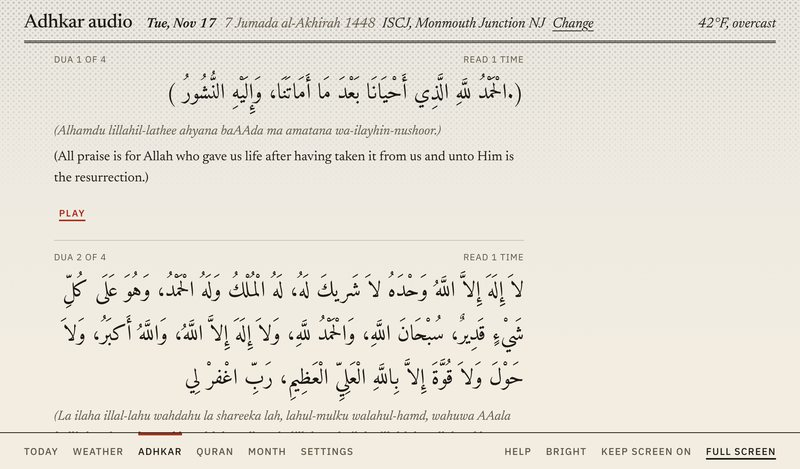
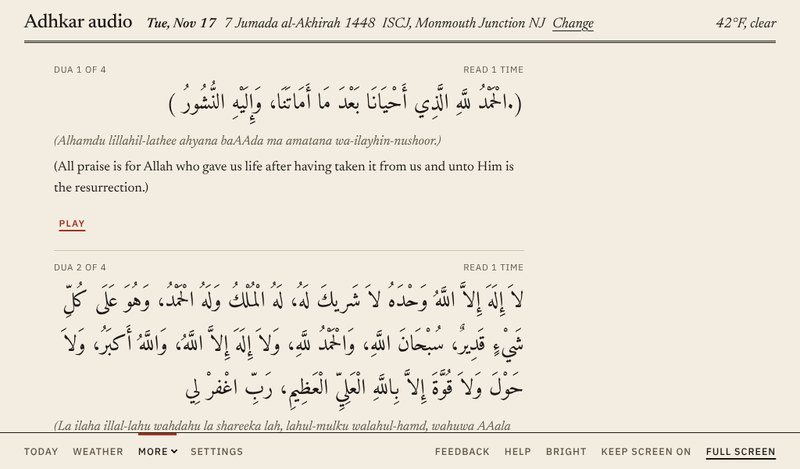
Guide pictures retaken, the sky kept to Today, and More matched to the other tabs
- Every guide picture is retaken from the app as it stands: the new bottom row (Today, Weather,
  More, Settings), the month link on the sunrise line, the "No time known" setting, and the
  live sky on the Today screen and in full screen. Crops and pins follow where each control
  now sits, and the alt text follows the pictures.
- The sky is drawn behind Today and the full screen view only. Behind Settings, Quran, Adhkar,
  Month and Weather it sat under small grey text and a sun glare, well under any readable
  contrast; those screens keep their plain paper.
- "More" now takes its type from the same rules as the other tabs instead of repeating them, so
  it matches at every screen size, and the menu's own chevron is the only mark beside it.
- Cache v41.

Claude-Session: https://claude.ai/code/session_01XcbEMRhwZDWxrWTj65tuJn

diff --git a/styles.css b/styles.css
@@ -85,6 +85,9 @@ body { overflow: hidden; }
 
 /* The moving weather sky (sky.js): one layer behind the page, moved into the full screen view while it is open */
 .sky-live { position: fixed; inset: 0; z-index: -1; pointer-events: none; overflow: hidden; color: var(--ink); }
+/* The sky belongs behind the clock, not behind a form: on every screen but Today it is dropped, so Settings,
+   Quran, Adhkar, Month and Weather keep their plain paper and their small text stays legible. */
+:root:not([data-tab="today"]) > body > .sky-live, :root:not([data-tab="today"]) .sky-tint { display: none; } /* the full screen view keeps its sky: there it is mounted inside #display */
 .sky-real { position: absolute; inset: 0; width: 100%; height: 100%; display: block;
   /* the sky is full strength along the top and gone before the timetable, at any screen height */
   -webkit-mask-image: linear-gradient(#000 0, #000 min(30vh, 200px), transparent min(62vh, 420px)); mask-image: linear-gradient(#000 0, #000 min(30vh, 200px), transparent min(62vh, 420px)); }
@@ -141,9 +144,9 @@ body { overflow: hidden; }
 .tabbar::-webkit-scrollbar { display: none; }
 .brand { width: 2.1rem; height: 2.1rem; margin-bottom: 1rem; }
 .tabbar .d-menu { width: 5.5rem; padding: 0; gap: .3rem; }
-.tabbar .d-menu a { flex-direction: column; align-items: center; gap: .25rem; padding: .6rem 0; font-size: .78rem; font-weight: 600; }
+.tabbar .d-menu a, .tabbar .d-menu .more summary { flex-direction: column; align-items: center; gap: .25rem; padding: .6rem 0; font-size: .78rem; font-weight: 600; }
 .tabbar a, .dockbar a { text-decoration: none; }
-.tabbar .d-menu a { display: grid; grid-auto-flow: row; justify-items: center; justify-content: center; color: var(--ink); } /* the portfolio's a { color: inherit } outranks daisyUI's layered colours */
+.tabbar .d-menu a, .tabbar .d-menu .more summary { display: grid; grid-auto-flow: row; justify-items: center; justify-content: center; color: var(--ink); } /* the portfolio's a { color: inherit } outranks daisyUI's layered colours */
 .tabbar .d-menu a.d-menu-active { color: var(--paper); }
 .tabbar svg, .dockbar svg, .tb-btn svg { width: 1.4rem; height: 1.4rem; flex: none; fill: none; stroke: currentColor; stroke-width: 1.8; stroke-linecap: round; stroke-linejoin: round; }
 .dockbar { display: none; position: static; }
@@ -545,7 +548,7 @@ body { overflow: hidden; }
   .tabbar { gap: .2rem; padding-top: max(.5rem, env(safe-area-inset-top, 0px)); padding-bottom: .5rem; }
   .brand { width: 1.6rem; height: 1.6rem; margin-bottom: .35rem; flex: none; }
   .tabbar .d-menu { width: 4.25rem; gap: .1rem; }
-  .tabbar .d-menu a { padding: .35rem 0; gap: .1rem; font-size: .7rem; }
+  .tabbar .d-menu a, .tabbar .d-menu .more summary { padding: .35rem 0; gap: .1rem; font-size: .7rem; }
   .tabbar svg { width: 1.2rem; height: 1.2rem; }
 }
 /* Phones: tabs move to a bottom bar, the top bar tightens and the action buttons become icons */
@@ -588,12 +591,12 @@ body { overflow: hidden; }
   .brand { display: none; }
   .app .tabbar .d-menu { flex-direction: row; flex-wrap: nowrap; width: auto; gap: 0 clamp(.8rem, 1.8vw, 1.6rem); }
   .app .tabbar .d-menu li { display: flex; }
-  .app .tabbar .d-menu a, .app .tb-btn, .app .tb-btn.d-btn {
+  .app .tabbar .d-menu a, .app .tabbar .d-menu .more summary, .app .tb-btn, .app .tb-btn.d-btn {
     display: flex; align-items: center; height: 2.9rem; min-height: 0; padding: 0; gap: 0; border: 0; border-radius: 0; background: none; box-shadow: none;
     font: 500 .78rem/1 var(--body); letter-spacing: .08em; text-transform: uppercase; color: var(--muted);
   }
-  .app .tabbar .d-menu a:hover, .app .tb-btn:hover { background: none; color: var(--ink); }
-  .app .tabbar .d-menu a.d-menu-active, .app .tabbar .d-menu a.d-menu-active:hover { background: none; color: var(--ink); box-shadow: inset 0 3px 0 var(--clear); }
+  .app .tabbar .d-menu a:hover, .app .tabbar .d-menu .more summary:hover, .app .tb-btn:hover { background: none; color: var(--ink); }
+  .app .tabbar .d-menu a.d-menu-active, .app .tabbar .d-menu .more summary.d-menu-active, .app .tabbar .d-menu a.d-menu-active:hover { background: none; color: var(--ink); box-shadow: inset 0 3px 0 var(--clear); }
   .app .tabbar .d-menu a svg, .app .tb-btn svg { display: none; }
   .topbar-actions {
     position: fixed; z-index: 20; right: max(clamp(1rem, 3vw, 2.5rem), env(safe-area-inset-right, 0px)); bottom: env(safe-area-inset-bottom, 0px);
@@ -880,13 +883,13 @@ body { overflow: hidden; }
   .app .tabbar .d-menu { gap: 0 .7rem; }
   .topbar-actions { gap: .7rem; }
   .topbar-actions::before { content: ""; align-self: center; width: 1px; height: 1.1rem; background: var(--line); } /* where the tabs end and the actions begin */
-  .app .tabbar .d-menu a, .app .tb-btn, .app .tb-btn.d-btn { letter-spacing: .03em; font-size: .74rem; }
+  .app .tabbar .d-menu a, .app .tabbar .d-menu .more summary, .app .tb-btn, .app .tb-btn.d-btn { letter-spacing: .03em; font-size: .74rem; }
 }
 
 @media (min-width: 48.01rem) and (max-width: 52rem) {
   .app .tabbar .d-menu { gap: 0 .55rem; }
   .topbar-actions { gap: .55rem; }
-  .app .tabbar .d-menu a, .app .tb-btn, .app .tb-btn.d-btn { letter-spacing: .02em; font-size: .7rem; }
+  .app .tabbar .d-menu a, .app .tabbar .d-menu .more summary, .app .tb-btn, .app .tb-btn.d-btn { letter-spacing: .02em; font-size: .7rem; }
 }
 
 /* Feedback form: a printed sheet over the dimmed page */
@@ -924,7 +927,6 @@ body { overflow: hidden; }
 /* More menu: Adhkar, Quran and Month sit under one entry so the main bar stays short on a wall tablet */
 .more summary { list-style: none; cursor: pointer; }
 .more summary::-webkit-details-marker { display: none; }
-.tabbar .d-menu .more summary { display: grid; justify-items: center; gap: .25rem; padding: .6rem 0; font-size: .78rem; font-weight: 600; color: var(--ink); }
 .more details { position: relative; }
 .more-menu { position: absolute; z-index: 20; min-width: 9rem; padding: .35rem; background: var(--paper); border: 1px solid var(--line); box-shadow: 0 6px 20px #0004; }
 .tabbar .more-menu { left: 100%; top: 0; margin-left: .35rem; }
@@ -937,10 +939,9 @@ body { overflow: hidden; }
 .sh-month:hover { text-decoration: underline; }
 /* Bottom bar (tablets and wider): More looks like the other tabs and opens upward */
 @media (min-width: 48.01rem) {
-  .app .tabbar .d-menu .more summary { display: flex; align-items: center; height: 2.9rem; padding: 0; gap: .3rem; font: 500 .78rem/1 var(--body); letter-spacing: .08em; text-transform: uppercase; color: var(--muted); }
+  .app .tabbar .d-menu .more summary { flex-direction: row; align-items: center; height: 2.9rem; padding: 0; gap: .34em; }
   .app .tabbar .d-menu .more summary svg { display: none; }
-  .app .tabbar .d-menu .more summary::after { content: "›"; display: inline-block; transform: rotate(-90deg); }
-  .app .tabbar .d-menu .more[open] summary::after, .app .tabbar .d-menu .more details[open] summary::after { transform: rotate(90deg); }
+  /* no caret: at this size any mark beside 11px uppercase type reads as a speck, and the menu opens right above the word */
   .app .tabbar .d-menu .more summary:hover, .app .tabbar .d-menu .more summary.d-menu-active { color: var(--ink); background: none; }
   .app .tabbar .d-menu .more summary.d-menu-active { box-shadow: inset 0 3px 0 var(--clear); }
   .tabbar .more-menu { left: 0; top: auto; bottom: 100%; margin: 0 0 .35rem; }

diff --git a/guide/today.html b/guide/today.html
@@ -25,7 +25,7 @@
 <p class="g-lead">Today is the screen your tablet shows all day. Everything on it updates by itself, so there is nothing to tap unless you want to.</p>
 
 <h2>The Today screen</h2>
-<figure class="g-shot"><a class="g-shot-frame" href="img/today-top.jpg"><img src="img/today-top.jpg" alt="The Today screen on a tablet: the date line at the top, a large clock reading 11:23, Dhuhr adhan in 19 minutes beside it with the adhan and iqama times, the weather at Dhuhr and the day ruler, then the five prayers with adhan and iqama times, and sunrise and Jumu'ah at the bottom." width="800" height="469" loading="lazy" decoding="async"><span class="g-pin" style="--x:4.38%;--y:8.74%" aria-hidden="true">1</span><span class="g-pin" style="--x:33.88%;--y:8.32%" aria-hidden="true">2</span><span class="g-pin" style="--x:45.75%;--y:31.34%" aria-hidden="true">3</span><span class="g-pin" style="--x:71.75%;--y:23.67%" aria-hidden="true">4</span><span class="g-pin" style="--x:75.75%;--y:42%" aria-hidden="true">5</span><span class="g-pin" style="--x:56.88%;--y:47.97%" aria-hidden="true">6</span><span class="g-pin" style="--x:29.25%;--y:68.02%" aria-hidden="true">7</span><span class="g-pin" style="--x:37.38%;--y:86.35%" aria-hidden="true">8</span></a><figcaption>The Today screen on a 7-inch tablet. <span class="g-zoom">(tap to see the whole screen)</span></figcaption></figure>
+<figure class="g-shot"><a class="g-shot-frame" href="img/today-top.jpg"><img src="img/today-top.jpg" alt="The Today screen on a tablet: the date line at the top, a large clock reading 11:23, Dhuhr adhan in 19 minutes beside it with the adhan and iqama times, the weather at Dhuhr and the day ruler, then the five prayers with adhan and iqama times, and sunrise and Jumu'ah at the bottom." width="800" height="469" loading="lazy" decoding="async"><span class="g-pin" style="--x:4.38%;--y:8.74%" aria-hidden="true">1</span><span class="g-pin" style="--x:33.88%;--y:8.32%" aria-hidden="true">2</span><span class="g-pin" style="--x:37.5%;--y:31.98%" aria-hidden="true">3</span><span class="g-pin" style="--x:71.75%;--y:23.67%" aria-hidden="true">4</span><span class="g-pin" style="--x:75%;--y:39.45%" aria-hidden="true">5</span><span class="g-pin" style="--x:56.88%;--y:47.97%" aria-hidden="true">6</span><span class="g-pin" style="--x:29.25%;--y:68.02%" aria-hidden="true">7</span><span class="g-pin" style="--x:37.38%;--y:86.35%" aria-hidden="true">8</span></a><figcaption>The Today screen on a 7-inch tablet. <span class="g-zoom">(tap to see the whole screen)</span></figcaption></figure>
 <ol class="g-steps">
 <li><strong>The date</strong>, then the Hijri date in italics. Chapter 2 shows how to move the Hijri date a day if your local moon sighting differs.</li>
 <li><strong>Where the times are for</strong>, and the weather now at the end of the line. Tap <span class="g-ui">Change</span> to set your place, or tap the weather to open the Weather tab.</li>
@@ -38,7 +38,7 @@
 </ol>
 
 <h2>The countdown, close up</h2>
-<figure class="g-shot"><a class="g-shot-frame g-crop" href="img/today-countdown.jpg" style="aspect-ratio:344/154"><img src="img/today-countdown.jpg" alt="Dhuhr adhan in 19 minutes 32 seconds; Adhan 11:43 AM, Iqama 12:30 PM; At Dhuhr: 43°, overcast; and the day ruler with the red ring before the D." width="800" height="469" loading="lazy" decoding="async" style="position:absolute;max-width:none;width:232.56%;left:-128.78%;top:-61.69%"><span class="g-pin" style="--x:48.84%;--y:31.17%" aria-hidden="true">1</span><span class="g-pin" style="--x:69.48%;--y:53.25%" aria-hidden="true">2</span><span class="g-pin" style="--x:47.38%;--y:66.23%" aria-hidden="true">3</span><span class="g-pin" style="--x:50%;--y:81.82%" aria-hidden="true">4</span></a><figcaption>The countdown beside the clock. <span class="g-zoom">(tap to see the whole screen)</span></figcaption></figure>
+<figure class="g-shot"><a class="g-shot-frame g-crop" href="img/today-countdown.jpg" style="aspect-ratio:344/154"><img src="img/today-countdown.jpg" alt="Dhuhr adhan in 19 minutes 32 seconds; Adhan 11:43 AM, Iqama 12:30 PM; At Dhuhr: 43°, clear; and the day ruler with the red ring before the D." width="800" height="469" loading="lazy" decoding="async" style="position:absolute;max-width:none;width:232.56%;left:-128.78%;top:-61.69%"><span class="g-pin" style="--x:48.84%;--y:31.17%" aria-hidden="true">1</span><span class="g-pin" style="--x:69.48%;--y:53.25%" aria-hidden="true">2</span><span class="g-pin" style="--x:47.38%;--y:66.23%" aria-hidden="true">3</span><span class="g-pin" style="--x:50%;--y:81.82%" aria-hidden="true">4</span></a><figcaption>The countdown beside the clock. <span class="g-zoom">(tap to see the whole screen)</span></figcaption></figure>
 <ol class="g-steps">
 <li><strong>How long until</strong> the next adhan, or the iqama once the adhan has passed.</li>
 <li><strong>Its adhan and iqama times.</strong> On Fridays it shows the khutbah times.</li>
@@ -55,7 +55,7 @@
 <p>If you leave the app on another screen, it returns to Today by itself after two minutes, so a tablet on the wall is never left showing something else. It stays where it is while a recitation is playing, while you are typing in Settings, or while a window is open.</p>
 
 <h2>Weather warnings</h2>
-<figure class="g-shot"><a class="g-shot-frame g-crop" href="img/today-warning.jpg" style="aspect-ratio:774/217"><img src="img/today-warning.jpg" alt="A red-ruled line above the clock: Winter Weather Advisory until 7:00 PM, National Weather Service office NWS Mount Holly NJ." width="800" height="469" loading="lazy" decoding="async" style="position:absolute;max-width:none;width:103.36%;left:-1.68%;top:-13.36%"><span class="g-pin" style="--x:24.29%;--y:10.14%" aria-hidden="true">1</span></a><figcaption>An example of the warning line. <span class="g-zoom">(tap to see the whole screen)</span></figcaption></figure>
+<figure class="g-shot"><a class="g-shot-frame g-crop" href="img/today-warning.jpg" style="aspect-ratio:774/217"><img src="img/today-warning.jpg" alt="A red-ruled line above the clock: Winter Weather Advisory until 7:00 PM, National Weather Service office NWS Mount Holly NJ." width="800" height="469" loading="lazy" decoding="async" style="position:absolute;max-width:none;width:103.36%;left:-1.68%;top:-13.36%"><span class="g-pin" style="--x:40.96%;--y:10.14%" aria-hidden="true">1</span></a><figcaption>An example of the warning line. <span class="g-zoom">(tap to see the whole screen)</span></figcaption></figure>
 <ol class="g-steps">
 <li>While an official <strong>warning, watch or advisory</strong> from the US National Weather Service is in force where you are, a red-ruled line names it and says when it ends. If there is more than one, it shows the most serious and how many more there are. The line goes away by itself when it ends. It is for US locations only.</li>
 </ol>

diff --git a/guide/adhkar.html b/guide/adhkar.html
@@ -25,14 +25,14 @@
 <p class="g-lead">All 132 chapters of Hisn al-Muslim to read and listen to, and the whole month’s adhan times on one page.</p>
 
 <h2>Adhkar</h2>
-<figure class="g-shot"><a class="g-shot-frame" href="img/adhkar.jpg"><img src="img/adhkar.jpg" alt="The Adhkar tab: a search box, 132 chapters, and a list starting with Supplications for when you wake up, each with a Listen link." width="800" height="469" loading="lazy" decoding="async"><span class="g-pin" style="--x:67%;--y:29.42%" aria-hidden="true">1</span><span class="g-pin" style="--x:33.88%;--y:60.34%" aria-hidden="true">2</span><span class="g-pin" style="--x:66.5%;--y:60.34%" aria-hidden="true">3</span></a><figcaption>The Adhkar tab. <span class="g-zoom">(tap to see the whole screen)</span></figcaption></figure>
+<figure class="g-shot"><a class="g-shot-frame" href="img/adhkar.jpg"><img src="img/adhkar.jpg" alt="The Adhkar tab: a search box, 132 chapters, and a list starting with Supplications for when you wake up, each with a Listen link." width="800" height="469" loading="lazy" decoding="async"><span class="g-pin" style="--x:52.5%;--y:29.42%" aria-hidden="true">1</span><span class="g-pin" style="--x:22.5%;--y:50.96%" aria-hidden="true">2</span><span class="g-pin" style="--x:62.5%;--y:50.96%" aria-hidden="true">3</span></a><figcaption>The Adhkar tab. <span class="g-zoom">(tap to see the whole screen)</span></figcaption></figure>
 <ol class="g-steps">
 <li><strong>Search</strong> by a word in the chapter’s title, such as <em>sleep</em> or <em>travel</em>.</li>
 <li><strong>Tap a chapter</strong> to open it and read its duas.</li>
 <li><strong>Listen</strong> plays the whole chapter, recited in Arabic. While it plays it says <span class="g-ui">Stop</span>.</li>
 </ol>
 
-<figure class="g-shot"><a class="g-shot-frame g-crop" href="img/adhkar-open.jpg" style="aspect-ratio:492/219"><img src="img/adhkar-open.jpg" alt="Chapter 1 opened: Dua 1 of 4, Read 1 time, the Arabic text, the transliteration, the English meaning and a Play link." width="800" height="469" loading="lazy" decoding="async" style="position:absolute;max-width:none;width:162.6%;left:-8.74%;top:-14.61%"><span class="g-pin" style="--x:15.45%;--y:12.79%" aria-hidden="true">1</span><span class="g-pin" style="--x:82.93%;--y:12.79%" aria-hidden="true">2</span><span class="g-pin" style="--x:11.18%;--y:83.11%" aria-hidden="true">3</span></a><figcaption>A chapter, opened. <span class="g-zoom">(tap to see the whole screen)</span></figcaption></figure>
+<figure class="g-shot"><a class="g-shot-frame g-crop" href="img/adhkar-open.jpg" style="aspect-ratio:517/195"><img src="img/adhkar-open.jpg" alt="Chapter 1 opened: Dua 1 of 4, Read 1 time, the Arabic text, the transliteration, the English meaning and a Play link." width="800" height="469" loading="lazy" decoding="async" style="position:absolute;max-width:none;width:154.74%;left:-8.32%;top:-28.21%"><span class="g-pin" style="--x:16.83%;--y:7.69%" aria-hidden="true">1</span><span class="g-pin" style="--x:79.69%;--y:7.69%" aria-hidden="true">2</span><span class="g-pin" style="--x:11.99%;--y:86.67%" aria-hidden="true">3</span></a><figcaption>A chapter, opened. <span class="g-zoom">(tap to see the whole screen)</span></figcaption></figure>
 <ol class="g-steps">
 <li><strong>Which dua</strong> of the chapter this is.</li>
 <li><strong>How many times</strong> to say it.</li>
@@ -40,7 +40,7 @@
 </ol>
 
 <h2>Month</h2>
-<figure class="g-shot"><a class="g-shot-frame" href="img/month.jpg"><img src="img/month.jpg" alt="The Month tab for November 2026: a table of every day with its Hijri date and the times for Fajr, Sunrise, Dhuhr, Asr, Maghrib and Isha. Fridays are in red." width="800" height="469" loading="lazy" decoding="async"><span class="g-pin" style="--x:83.63%;--y:17.48%" aria-hidden="true">1</span><span class="g-pin" style="--x:26.88%;--y:35.61%" aria-hidden="true">2</span><span class="g-pin" style="--x:9.13%;--y:78.25%" aria-hidden="true">3</span></a><figcaption>The Month tab. <span class="g-zoom">(tap to see the whole screen)</span></figcaption></figure>
+<figure class="g-shot"><a class="g-shot-frame" href="img/month.jpg"><img src="img/month.jpg" alt="The Month tab for November 2026: a table of every day with its Hijri date and the times for Fajr, Sunrise, Dhuhr, Asr, Maghrib and Isha. Fridays are in red." width="800" height="469" loading="lazy" decoding="async"><span class="g-pin" style="--x:91.13%;--y:17.48%" aria-hidden="true">1</span><span class="g-pin" style="--x:22.5%;--y:52.67%" aria-hidden="true">2</span><span class="g-pin" style="--x:17.5%;--y:78.25%" aria-hidden="true">3</span></a><figcaption>The Month tab. <span class="g-zoom">(tap to see the whole screen)</span></figcaption></figure>
 <ol class="g-steps">
 <li><strong>Share this month</strong> sends the whole timetable by message or any app you choose.</li>
 <li><strong>The Hijri date</strong> for each day. The month’s name shows where a new Hijri month starts.</li>

diff --git a/guide/alerts.html b/guide/alerts.html
@@ -34,7 +34,7 @@
 </div>
 
 <h2>Settings › Adhan and alerts</h2>
-<figure class="g-shot"><a class="g-shot-frame g-crop" href="img/alerts-top.jpg" style="aspect-ratio:726/134"><img src="img/alerts-top.jpg" alt="Settings, Adhan and alerts: the Alerts on switch, Adhan recording set to Makkah, Fajr adhan set to Mansoor Az-Zahrani, and Hear a sample buttons." width="800" height="469" loading="lazy" decoding="async" style="position:absolute;max-width:none;width:110.19%;left:-1.79%;top:-88.81%"><span class="g-pin" style="--x:4.13%;--y:16.42%" aria-hidden="true">1</span><span class="g-pin" style="--x:3.03%;--y:67.91%" aria-hidden="true">2</span><span class="g-pin" style="--x:53.31%;--y:67.91%" aria-hidden="true">3</span><span class="g-pin" style="--x:17.91%;--y:84.33%" aria-hidden="true">4</span></a><figcaption>The top of the Adhan and alerts page. <span class="g-zoom">(tap to see the whole screen)</span></figcaption></figure>
+<figure class="g-shot"><a class="g-shot-frame g-crop" href="img/alerts-top.jpg" style="aspect-ratio:726/134"><img src="img/alerts-top.jpg" alt="Settings, Adhan and alerts: the Alerts on switch, Adhan recording set to Makkah, Fajr adhan set to Mansoor Az-Zahrani, and Hear a sample buttons." width="800" height="469" loading="lazy" decoding="async" style="position:absolute;max-width:none;width:110.19%;left:-1.79%;top:-88.81%"><span class="g-pin" style="--x:4.13%;--y:16.42%" aria-hidden="true">1</span><span class="g-pin" style="--x:33.61%;--y:52.24%" aria-hidden="true">2</span><span class="g-pin" style="--x:81.27%;--y:52.24%" aria-hidden="true">3</span><span class="g-pin" style="--x:17.91%;--y:84.33%" aria-hidden="true">4</span></a><figcaption>The top of the Adhan and alerts page. <span class="g-zoom">(tap to see the whole screen)</span></figcaption></figure>
 <ol class="g-steps">
 <li><strong>Alerts: on</strong> turns every alert on or off at once.</li>
 <li><strong>Adhan recording</strong> is the adhan used for Dhuhr, Asr, Maghrib and Isha. There are five: Makkah, Egyptian style, Masjid Al-Aqsa, Ottoman style and Mishary Al-Afasy.</li>
@@ -44,7 +44,7 @@
 
 <h2>Each prayer’s alerts</h2>
 <p>Below the recordings is a card for each prayer. Tap a card to open it.</p>
-<figure class="g-shot"><a class="g-shot-frame g-crop" href="img/alerts-card-open.jpg" style="aspect-ratio:264/284"><img src="img/alerts-card-open.jpg" alt="The Dhuhr card opened: At adhan set to Message only, Before adhan and Before iqama switched off with Soft beep, 10 and 5 minutes, and a Use for all prayers link." width="800" height="469" loading="lazy" decoding="async" style="position:absolute;max-width:none;width:303.03%;left:-101.52%;top:-33.45%"><span class="g-pin" style="--x:4.55%;--y:14.44%" aria-hidden="true">1</span><span class="g-pin" style="--x:94.32%;--y:29.23%" aria-hidden="true">2</span><span class="g-pin" style="--x:4.55%;--y:40.85%" aria-hidden="true">3</span><span class="g-pin" style="--x:32.95%;--y:52.11%" aria-hidden="true">4</span><span class="g-pin" style="--x:46.21%;--y:86.97%" aria-hidden="true">5</span></a><figcaption>The Fajr card, opened. <span class="g-zoom">(tap to see the whole screen)</span></figcaption></figure>
+<figure class="g-shot"><a class="g-shot-frame g-crop" href="img/alerts-card-open.jpg" style="aspect-ratio:270/278"><img src="img/alerts-card-open.jpg" alt="The Fajr card opened: At adhan set to Message only, Before adhan and Before iqama switched off with Soft beep, 10 and 5 minutes, and a Use for all prayers link." width="800" height="469" loading="lazy" decoding="async" style="position:absolute;max-width:none;width:296.3%;left:-7.41%;top:-15.11%"><span class="g-pin" style="--x:11.48%;--y:11.15%" aria-hidden="true">1</span><span class="g-pin" style="--x:85.19%;--y:20.5%" aria-hidden="true">2</span><span class="g-pin" style="--x:10%;--y:38.49%" aria-hidden="true">3</span><span class="g-pin" style="--x:15.19%;--y:49.64%" aria-hidden="true">4</span><span class="g-pin" style="--x:37.04%;--y:85.61%" aria-hidden="true">5</span></a><figcaption>The Fajr card, opened. <span class="g-zoom">(tap to see the whole screen)</span></figcaption></figure>
 <ol class="g-steps">
 <li><strong>The switch on the card</strong> turns all of that prayer’s alerts on or off.</li>
 <li><strong>At adhan</strong>: what happens at the adhan time. Choose <em>Message only</em>, <em>Soft beep</em>, <em>Bismillah, spoken</em>, <em>Adhan, your default recording</em>, or any one recording.</li>

diff --git a/guide/display.html b/guide/display.html
@@ -36,7 +36,7 @@
 </div>
 
 <h2>Look and brightness</h2>
-<figure class="g-shot"><a class="g-shot-frame g-crop" href="img/display-top.jpg" style="aspect-ratio:422/247"><img src="img/display-top.jpg" alt="Settings, Display: the six clock style buttons, three round swatches for the look, and the Brightness now slider set to Bright." width="800" height="469" loading="lazy" decoding="async" style="position:absolute;max-width:none;width:189.57%;left:-3.08%;top:-45.34%"><span class="g-pin" style="--x:21.33%;--y:8.91%" aria-hidden="true">1</span><span class="g-pin" style="--x:39.1%;--y:48.58%" aria-hidden="true">2</span><span class="g-pin" style="--x:38.63%;--y:81.78%" aria-hidden="true">3</span></a><figcaption>The top of the Display page. <span class="g-zoom">(tap to see the whole screen)</span></figcaption></figure>
+<figure class="g-shot"><a class="g-shot-frame g-crop" href="img/display-top.jpg" style="aspect-ratio:422/247"><img src="img/display-top.jpg" alt="Settings, Display: the six clock style buttons, three round swatches for the look, and the Brightness now slider set to Bright." width="800" height="469" loading="lazy" decoding="async" style="position:absolute;max-width:none;width:189.57%;left:-3.08%;top:-45.34%"><span class="g-pin" style="--x:21.33%;--y:8.91%" aria-hidden="true">1</span><span class="g-pin" style="--x:18.01%;--y:63.56%" aria-hidden="true">2</span><span class="g-pin" style="--x:35.55%;--y:92.31%" aria-hidden="true">3</span></a><figcaption>The top of the Display page. <span class="g-zoom">(tap to see the whole screen)</span></figcaption></figure>
 <ol class="g-steps">
 <li><strong>Clock style</strong>: the six styles above.</li>
 <li><strong>Look</strong>: <em>Printed timetable</em> (paper and ink), <em>Handwritten</em> (blue pen on a ruled sheet), or <em>High contrast</em> (black and white, easiest to read from afar).</li>
@@ -44,7 +44,7 @@
 </ol>
 
 <h2>Night, duas and full screen</h2>
-<figure class="g-shot"><a class="g-shot-frame g-crop" href="img/display-dim.jpg" style="aspect-ratio:298/419"><img src="img/display-dim.jpg" alt="Dim automatically set to After Isha, the At night slider set to Dim, the Show duas and adhkar and Show transliteration switches, the Weather background drop-down, and the Full screen layout drop-down." width="800" height="469" loading="lazy" decoding="async" style="position:absolute;max-width:none;width:268.46%;left:-4.36%;top:-7.64%"><span class="g-pin" style="--x:44.97%;--y:5.01%" aria-hidden="true">1</span><span class="g-pin" style="--x:34.9%;--y:20.05%" aria-hidden="true">2</span><span class="g-pin" style="--x:10.07%;--y:47.49%" aria-hidden="true">3</span><span class="g-pin" style="--x:50.34%;--y:56.09%" aria-hidden="true">4</span><span class="g-pin" style="--x:43.96%;--y:85.92%" aria-hidden="true">5</span></a><figcaption>Further down the Display page. <span class="g-zoom">(tap to see the whole screen)</span></figcaption></figure>
+<figure class="g-shot"><a class="g-shot-frame g-crop" href="img/display-dim.jpg" style="aspect-ratio:547/400"><img src="img/display-dim.jpg" alt="Dim automatically set to After Isha, the At night slider set to Dim, the Show duas and adhkar and Show transliteration switches, the Weather background drop-down, and the Full screen layout drop-down." width="800" height="469" loading="lazy" decoding="async" style="position:absolute;max-width:none;width:146.25%;left:-2.38%;top:-10%"><span class="g-pin" style="--x:8.59%;--y:7.5%" aria-hidden="true">1</span><span class="g-pin" style="--x:27.42%;--y:23.5%" aria-hidden="true">2</span><span class="g-pin" style="--x:5.48%;--y:45.5%" aria-hidden="true">3</span><span class="g-pin" style="--x:24.86%;--y:62.75%" aria-hidden="true">4</span><span class="g-pin" style="--x:24.86%;--y:94%" aria-hidden="true">5</span></a><figcaption>Further down the Display page. <span class="g-zoom">(tap to see the whole screen)</span></figcaption></figure>
 <ol class="g-steps">
 <li><strong>Dim automatically</strong>: <em>After Isha</em>, <em>After Maghrib</em>, or <em>Off</em>. The screen goes bright again at sunrise.</li>
 <li><strong>At night</strong>: how dim it goes: Soft, Dim or Darkest.</li>

diff --git a/scripts/guide/chapters/today.html b/scripts/guide/chapters/today.html
@@ -1,7 +1,7 @@
 <p class="g-lead">Today is the screen your tablet shows all day. Everything on it updates by itself, so there is nothing to tap unless you want to.</p>
 
 <h2>The Today screen</h2>
-<shot src="today-top.jpg" alt="The Today screen on a tablet: the date line at the top, a large clock reading 11:23, Dhuhr adhan in 19 minutes beside it with the adhan and iqama times, the weather at Dhuhr and the day ruler, then the five prayers with adhan and iqama times, and sunrise and Jumu'ah at the bottom." pins="1@35,41 2@271,39 3@366,147 4@574,111 5@606,197 6@455,225 7@234,319 8@299,405">The Today screen on a 7-inch tablet.</shot>
+<shot src="today-top.jpg" alt="The Today screen on a tablet: the date line at the top, a large clock reading 11:23, Dhuhr adhan in 19 minutes beside it with the adhan and iqama times, the weather at Dhuhr and the day ruler, then the five prayers with adhan and iqama times, and sunrise and Jumu'ah at the bottom." pins="1@35,41 2@271,39 3@300,150 4@574,111 5@600,185 6@455,225 7@234,319 8@299,405">The Today screen on a 7-inch tablet.</shot>
 <ol class="g-steps">
 <li><strong>The date</strong>, then the Hijri date in italics. Chapter 2 shows how to move the Hijri date a day if your local moon sighting differs.</li>
 <li><strong>Where the times are for</strong>, and the weather now at the end of the line. Tap <span class="g-ui">Change</span> to set your place, or tap the weather to open the Weather tab.</li>
@@ -14,7 +14,7 @@
 </ol>
 
 <h2>The countdown, close up</h2>
-<shot src="today-countdown.jpg" alt="Dhuhr adhan in 19 minutes 32 seconds; Adhan 11:43 AM, Iqama 12:30 PM; At Dhuhr: 43°, overcast; and the day ruler with the red ring before the D." crop="443,95,787,249" pins="1@611,143 2@682,177 3@606,197 4@615,221">The countdown beside the clock.</shot>
+<shot src="today-countdown.jpg" alt="Dhuhr adhan in 19 minutes 32 seconds; Adhan 11:43 AM, Iqama 12:30 PM; At Dhuhr: 43°, clear; and the day ruler with the red ring before the D." crop="443,95,787,249" pins="1@611,143 2@682,177 3@606,197 4@615,221">The countdown beside the clock.</shot>
 <ol class="g-steps">
 <li><strong>How long until</strong> the next adhan, or the iqama once the adhan has passed.</li>
 <li><strong>Its adhan and iqama times.</strong> On Fridays it shows the khutbah times.</li>
@@ -31,7 +31,7 @@
 <p>If you leave the app on another screen, it returns to Today by itself after two minutes, so a tablet on the wall is never left showing something else. It stays where it is while a recitation is playing, while you are typing in Settings, or while a window is open.</p>
 
 <h2>Weather warnings</h2>
-<shot src="today-warning.jpg" alt="A red-ruled line above the clock: Winter Weather Advisory until 7:00 PM, National Weather Service office NWS Mount Holly NJ." crop="13,29,787,246" pins="1@201,51">An example of the warning line.</shot>
+<shot src="today-warning.jpg" alt="A red-ruled line above the clock: Winter Weather Advisory until 7:00 PM, National Weather Service office NWS Mount Holly NJ." crop="13,29,787,246" pins="1@330,51">An example of the warning line.</shot>
 <ol class="g-steps">
 <li>While an official <strong>warning, watch or advisory</strong> from the US National Weather Service is in force where you are, a red-ruled line names it and says when it ends. If there is more than one, it shows the most serious and how many more there are. The line goes away by itself when it ends. It is for US locations only.</li>
 </ol>

diff --git a/guide/weather.html b/guide/weather.html
@@ -25,7 +25,7 @@
 <p class="g-lead">The weather now, the week ahead, and what it will be like at each prayer time, for the place you set in chapter 2.</p>
 
 <h2>Now</h2>
-<figure class="g-shot"><a class="g-shot-frame g-crop" href="img/weather-now.jpg" style="aspect-ratio:774/292"><img src="img/weather-now.jpg" alt="The Weather tab: °F and °C buttons, 42°F overcast with a high of 48 and low of 37, and a grid of details such as feels like, humidity, wind and sunset." width="800" height="469" loading="lazy" decoding="async" style="position:absolute;max-width:none;width:103.36%;left:-1.68%;top:-20.55%"><span class="g-pin" style="--x:12.66%;--y:8.22%" aria-hidden="true">1</span><span class="g-pin" style="--x:9.3%;--y:41.44%" aria-hidden="true">2</span><span class="g-pin" style="--x:9.82%;--y:49.32%" aria-hidden="true">3</span></a><figcaption>The Weather tab. <span class="g-zoom">(tap to see the whole screen)</span></figcaption></figure>
+<figure class="g-shot"><a class="g-shot-frame g-crop" href="img/weather-now.jpg" style="aspect-ratio:774/300"><img src="img/weather-now.jpg" alt="The Weather tab: °F and °C buttons, 42°F clear with a high of 48 and low of 37, and a grid of details such as feels like, humidity, wind and sunset." width="800" height="469" loading="lazy" decoding="async" style="position:absolute;max-width:none;width:103.36%;left:-1.68%;top:-20%"><span class="g-pin" style="--x:3.88%;--y:8%" aria-hidden="true">1</span><span class="g-pin" style="--x:3.23%;--y:29.33%" aria-hidden="true">2</span><span class="g-pin" style="--x:3.23%;--y:67.67%" aria-hidden="true">3</span></a><figcaption>The Weather tab. <span class="g-zoom">(tap to see the whole screen)</span></figcaption></figure>
 <ol class="g-steps">
 <li><strong>°F or °C</strong>: tap to switch.</li>
 <li><strong>Now</strong>: the temperature, the sky, and today’s high and low.</li>
@@ -33,7 +33,7 @@
 </ol>
 
 <h2>Air and the week ahead</h2>
-<figure class="g-shot"><a class="g-shot-frame g-crop" href="img/weather-aq.jpg" style="aspect-ratio:774/377"><img src="img/weather-aq.jpg" alt="Air quality 30, good, then the next 7 days with a one-line summary: staying cool, rain tomorrow." width="800" height="469" loading="lazy" decoding="async" style="position:absolute;max-width:none;width:103.36%;left:-1.68%;top:-8.49%"><span class="g-pin" style="--x:19.38%;--y:5.84%" aria-hidden="true">1</span><span class="g-pin" style="--x:36.18%;--y:28.38%" aria-hidden="true">2</span></a><figcaption>Further down the Weather tab. <span class="g-zoom">(tap to see the whole screen)</span></figcaption></figure>
+<figure class="g-shot"><a class="g-shot-frame g-crop" href="img/weather-aq.jpg" style="aspect-ratio:774/388"><img src="img/weather-aq.jpg" alt="Air quality 30, good, then the next 7 days with a one-line summary: staying cool, rain tomorrow." width="800" height="469" loading="lazy" decoding="async" style="position:absolute;max-width:none;width:103.36%;left:-1.68%;top:-8.25%"><span class="g-pin" style="--x:21.45%;--y:5.67%" aria-hidden="true">1</span><span class="g-pin" style="--x:6.07%;--y:33.51%" aria-hidden="true">2</span></a><figcaption>Further down the Weather tab. <span class="g-zoom">(tap to see the whole screen)</span></figcaption></figure>
 <ol class="g-steps">
 <li><strong>Air quality</strong>, with a colour from good to unhealthy.</li>
 <li><strong>Next 7 days</strong>, with a one-line summary of the next two days.</li>

diff --git a/guide/iqama.html b/guide/iqama.html
@@ -25,7 +25,7 @@
 <p class="g-lead">The iqama is when the prayer starts at the masjid. Each prayer can follow ISCJ, a time you choose, or a number of minutes after the adhan.</p>
 
 <h2>Settings › Iqama times</h2>
-<figure class="g-shot"><a class="g-shot-frame g-crop" href="img/set-iqama.jpg" style="aspect-ratio:774/281"><img src="img/set-iqama.jpg" alt="Settings, Iqama times tab: Fajr, Dhuhr, Asr, Maghrib and Isha each with a drop-down set to ISCJ time, and a Use ISCJ times for all button." width="800" height="469" loading="lazy" decoding="async" style="position:absolute;max-width:none;width:103.36%;left:-1.68%;top:-39.15%"><span class="g-pin" style="--x:45.22%;--y:26.33%" aria-hidden="true">1</span><span class="g-pin" style="--x:16.41%;--y:91.81%" aria-hidden="true">2</span></a><figcaption>Settings › Iqama times. <span class="g-zoom">(tap to see the whole screen)</span></figcaption></figure>
+<figure class="g-shot"><a class="g-shot-frame g-crop" href="img/set-iqama.jpg" style="aspect-ratio:774/330"><img src="img/set-iqama.jpg" alt="Settings, Iqama times tab: Fajr, Dhuhr, Asr, Maghrib and Isha each with a drop-down set to ISCJ time, a No time known drop-down set to Leave as not set, and a Use ISCJ times for all button." width="800" height="469" loading="lazy" decoding="async" style="position:absolute;max-width:none;width:103.36%;left:-1.68%;top:-33.33%"><span class="g-pin" style="--x:45.22%;--y:22.42%" aria-hidden="true">1</span><span class="g-pin" style="--x:27.39%;--y:80%" aria-hidden="true">2</span><span class="g-pin" style="--x:18.99%;--y:94.24%" aria-hidden="true">3</span></a><figcaption>Settings › Iqama times. <span class="g-zoom">(tap to see the whole screen)</span></figcaption></figure>
 <ol class="g-steps">
 <li><strong>Choose for each prayer</strong> from its drop-down:
 <ul>
@@ -33,8 +33,8 @@
 <li><strong>Fixed time</strong>: the same time every day, such as 8:00 PM for Isha. Type it in the box that appears.</li>
 <li><strong>Minutes after adhan</strong>: for example 10, so the iqama moves with the adhan as the seasons change. Any number from 0 to 180.</li>
 </ul></li>
+<li><strong>No time known</strong> decides what a prayer shows when there is no time for it from the masjid or from you. It stays <em>Leave as not set</em> unless you change it. Choose <em>Minutes after adhan</em> and type a number, and those prayers show that time with the word <strong>default</strong> under it, so nobody mistakes it for the masjid’s own time.</li>
 <li><strong>Use ISCJ times for all</strong> puts every prayer back to the masjid’s times.</li>
-<li><strong>No time known</strong>, at the foot of the list, decides what a prayer shows when there is no time for it from the masjid or from you. It stays <em>Leave as not set</em> unless you change it. Choose <em>Minutes after adhan</em> and type a number, and those prayers show that time with the word <strong>default</strong> under it, so nobody mistakes it for the masjid’s own time.</li>
 </ol>
 
 <h2>Example</h2>

diff --git a/guide/location.html b/guide/location.html
@@ -34,7 +34,7 @@
 <p>You can change this at any time: tap <span class="g-ui">Change</span> next to the place name at the top of any screen, or open <span class="g-path">Settings <span>›</span> Location</span>.</p>
 
 <h2>Settings › Location</h2>
-<figure class="g-shot"><a class="g-shot-frame g-crop" href="img/set-location.jpg" style="aspect-ratio:774/336"><img src="img/set-location.jpg" alt="Settings, Location tab: a City or town search box, Use my location and Use ISCJ buttons, the calculation Method set to ISNA, and Asr set to Standard." width="800" height="469" loading="lazy" decoding="async" style="position:absolute;max-width:none;width:103.36%;left:-1.68%;top:-33.33%"><span class="g-pin" style="--x:12.4%;--y:22.32%" aria-hidden="true">1</span><span class="g-pin" style="--x:2.84%;--y:41.67%" aria-hidden="true">2</span><span class="g-pin" style="--x:9.04%;--y:47.62%" aria-hidden="true">3</span><span class="g-pin" style="--x:50.39%;--y:47.62%" aria-hidden="true">4</span><span class="g-pin" style="--x:18.22%;--y:59.82%" aria-hidden="true">5</span></a><figcaption>Settings › Location. <span class="g-zoom">(tap to see the whole screen)</span></figcaption></figure>
+<figure class="g-shot"><a class="g-shot-frame g-crop" href="img/set-location.jpg" style="aspect-ratio:774/336"><img src="img/set-location.jpg" alt="Settings, Location tab: a City or town search box, Use my location and Use ISCJ buttons, the calculation Method set to ISNA, and Asr set to Standard." width="800" height="469" loading="lazy" decoding="async" style="position:absolute;max-width:none;width:103.36%;left:-1.68%;top:-33.33%"><span class="g-pin" style="--x:13.82%;--y:22.32%" aria-hidden="true">1</span><span class="g-pin" style="--x:7.24%;--y:35.12%" aria-hidden="true">2</span><span class="g-pin" style="--x:29.07%;--y:47.62%" aria-hidden="true">3</span><span class="g-pin" style="--x:73.77%;--y:47.62%" aria-hidden="true">4</span><span class="g-pin" style="--x:11.89%;--y:59.82%" aria-hidden="true">5</span></a><figcaption>Settings › Location. <span class="g-zoom">(tap to see the whole screen)</span></figcaption></figure>
 <ol class="g-steps">
 <li><strong>City or town.</strong> Type your town, tap <span class="g-ui">Search</span>, and pick it from the list.</li>
 <li><strong>Use my location</strong> sets it from the tablet’s location. <strong>Use ISCJ</strong> goes back to the masjid’s times.</li>

diff --git a/scripts/guide/chapters/adhkar.html b/scripts/guide/chapters/adhkar.html
@@ -1,14 +1,14 @@
 <p class="g-lead">All 132 chapters of Hisn al-Muslim to read and listen to, and the whole month’s adhan times on one page.</p>
 
 <h2>Adhkar</h2>
-<shot src="adhkar.jpg" alt="The Adhkar tab: a search box, 132 chapters, and a list starting with Supplications for when you wake up, each with a Listen link." pins="1@536,138 2@271,283 3@532,283">The Adhkar tab.</shot>
+<shot src="adhkar.jpg" alt="The Adhkar tab: a search box, 132 chapters, and a list starting with Supplications for when you wake up, each with a Listen link." pins="1@420,138 2@180,239 3@500,239">The Adhkar tab.</shot>
 <ol class="g-steps">
 <li><strong>Search</strong> by a word in the chapter’s title, such as <em>sleep</em> or <em>travel</em>.</li>
 <li><strong>Tap a chapter</strong> to open it and read its duas.</li>
 <li><strong>Listen</strong> plays the whole chapter, recited in Arabic. While it plays it says <span class="g-ui">Stop</span>.</li>
 </ol>
 
-<shot src="adhkar-open.jpg" alt="Chapter 1 opened: Dua 1 of 4, Read 1 time, the Arabic text, the transliteration, the English meaning and a Play link." crop="43,32,535,251" pins="1@119,60 2@451,60 3@98,214">A chapter, opened.</shot>
+<shot src="adhkar-open.jpg" alt="Chapter 1 opened: Dua 1 of 4, Read 1 time, the Arabic text, the transliteration, the English meaning and a Play link." crop="43,55,560,250" pins="1@130,70 2@455,70 3@105,224">A chapter, opened.</shot>
 <ol class="g-steps">
 <li><strong>Which dua</strong> of the chapter this is.</li>
 <li><strong>How many times</strong> to say it.</li>
@@ -16,7 +16,7 @@
 </ol>
 
 <h2>Month</h2>
-<shot src="month.jpg" alt="The Month tab for November 2026: a table of every day with its Hijri date and the times for Fajr, Sunrise, Dhuhr, Asr, Maghrib and Isha. Fridays are in red." pins="1@669,82 2@215,167 3@73,367">The Month tab.</shot>
+<shot src="month.jpg" alt="The Month tab for November 2026: a table of every day with its Hijri date and the times for Fajr, Sunrise, Dhuhr, Asr, Maghrib and Isha. Fridays are in red." pins="1@729,82 2@180,247 3@140,367">The Month tab.</shot>
 <ol class="g-steps">
 <li><strong>Share this month</strong> sends the whole timetable by message or any app you choose.</li>
 <li><strong>The Hijri date</strong> for each day. The month’s name shows where a new Hijri month starts.</li>

diff --git a/scripts/guide/chapters/iqama.html b/scripts/guide/chapters/iqama.html
@@ -1,7 +1,7 @@
 <p class="g-lead">The iqama is when the prayer starts at the masjid. Each prayer can follow ISCJ, a time you choose, or a number of minutes after the adhan.</p>
 
 <h2>Settings › Iqama times</h2>
-<shot src="set-iqama.jpg" alt="Settings, Iqama times tab: Fajr, Dhuhr, Asr, Maghrib and Isha each with a drop-down set to ISCJ time, and a Use ISCJ times for all button." crop="13,110,787,391" pins="1@363,184 2@140,368">Settings › Iqama times.</shot>
+<shot src="set-iqama.jpg" alt="Settings, Iqama times tab: Fajr, Dhuhr, Asr, Maghrib and Isha each with a drop-down set to ISCJ time, a No time known drop-down set to Leave as not set, and a Use ISCJ times for all button." crop="13,110,787,440" pins="1@363,184 2@225,374 3@160,421">Settings › Iqama times.</shot>
 <ol class="g-steps">
 <li><strong>Choose for each prayer</strong> from its drop-down:
 <ul>
@@ -9,8 +9,8 @@
 <li><strong>Fixed time</strong>: the same time every day, such as 8:00 PM for Isha. Type it in the box that appears.</li>
 <li><strong>Minutes after adhan</strong>: for example 10, so the iqama moves with the adhan as the seasons change. Any number from 0 to 180.</li>
 </ul></li>
+<li><strong>No time known</strong> decides what a prayer shows when there is no time for it from the masjid or from you. It stays <em>Leave as not set</em> unless you change it. Choose <em>Minutes after adhan</em> and type a number, and those prayers show that time with the word <strong>default</strong> under it, so nobody mistakes it for the masjid’s own time.</li>
 <li><strong>Use ISCJ times for all</strong> puts every prayer back to the masjid’s times.</li>
-<li><strong>No time known</strong>, at the foot of the list, decides what a prayer shows when there is no time for it from the masjid or from you. It stays <em>Leave as not set</em> unless you change it. Choose <em>Minutes after adhan</em> and type a number, and those prayers show that time with the word <strong>default</strong> under it, so nobody mistakes it for the masjid’s own time.</li>
 </ol>
 
 <h2>Example</h2>

diff --git a/scripts/guide/chapters/alerts.html b/scripts/guide/chapters/alerts.html
@@ -10,7 +10,7 @@
 </div>
 
 <h2>Settings › Adhan and alerts</h2>
-<shot src="alerts-top.jpg" alt="Settings, Adhan and alerts: the Alerts on switch, Adhan recording set to Makkah, Fajr adhan set to Mansoor Az-Zahrani, and Hear a sample buttons." crop="13,119,739,253" pins="1@43,141 2@35,210 3@400,210 4@143,232">The top of the Adhan and alerts page.</shot>
+<shot src="alerts-top.jpg" alt="Settings, Adhan and alerts: the Alerts on switch, Adhan recording set to Makkah, Fajr adhan set to Mansoor Az-Zahrani, and Hear a sample buttons." crop="13,119,739,253" pins="1@43,141 2@257,189 3@603,189 4@143,232">The top of the Adhan and alerts page.</shot>
 <ol class="g-steps">
 <li><strong>Alerts: on</strong> turns every alert on or off at once.</li>
 <li><strong>Adhan recording</strong> is the adhan used for Dhuhr, Asr, Maghrib and Isha. There are five: Makkah, Egyptian style, Masjid Al-Aqsa, Ottoman style and Mishary Al-Afasy.</li>
@@ -20,7 +20,7 @@
 
 <h2>Each prayer’s alerts</h2>
 <p>Below the recordings is a card for each prayer. Tap a card to open it.</p>
-<shot src="alerts-card-open.jpg" alt="The Dhuhr card opened: At adhan set to Message only, Before adhan and Before iqama switched off with Soft beep, 10 and 5 minutes, and a Use for all prayers link." crop="268,95,532,379" pins="1@280,136 2@517,178 3@280,211 4@355,243 5@390,342">The Fajr card, opened.</shot>
+<shot src="alerts-card-open.jpg" alt="The Fajr card opened: At adhan set to Message only, Before adhan and Before iqama switched off with Soft beep, 10 and 5 minutes, and a Use for all prayers link." crop="20,42,290,320" pins="1@51,73 2@250,99 3@47,149 4@61,180 5@120,280">The Fajr card, opened.</shot>
 <ol class="g-steps">
 <li><strong>The switch on the card</strong> turns all of that prayer’s alerts on or off.</li>
 <li><strong>At adhan</strong>: what happens at the adhan time. Choose <em>Message only</em>, <em>Soft beep</em>, <em>Bismillah, spoken</em>, <em>Adhan, your default recording</em>, or any one recording.</li>
